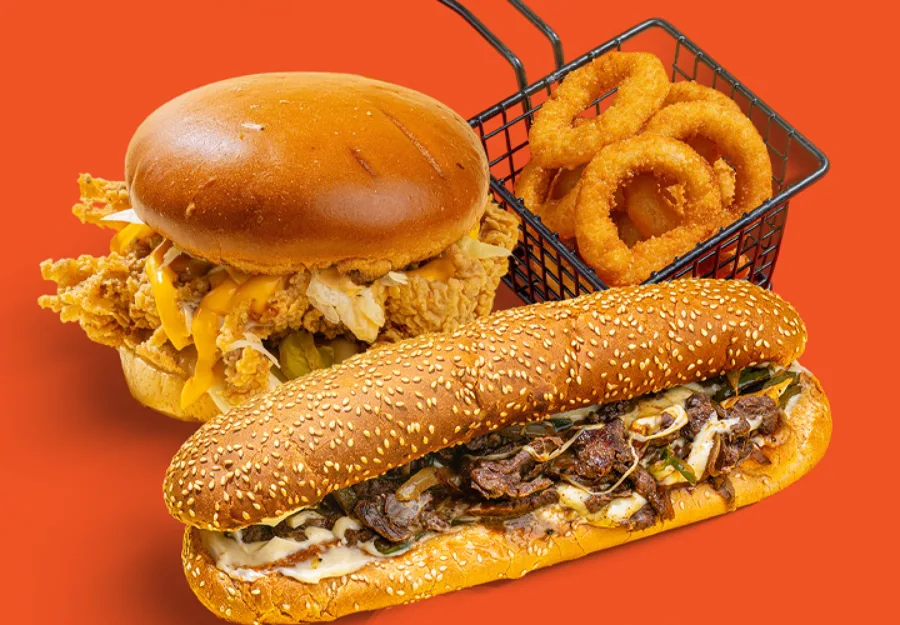
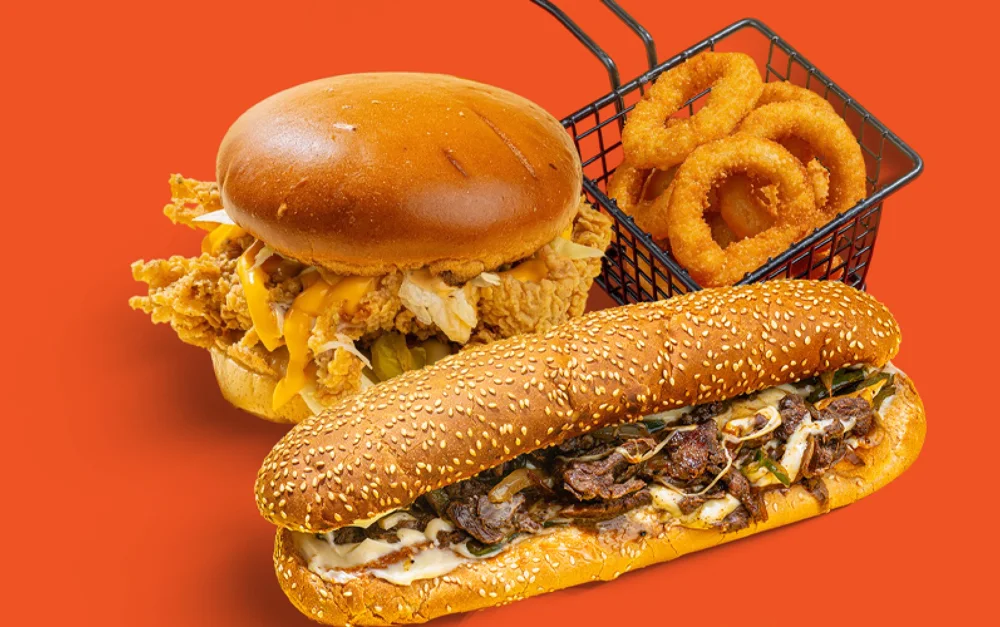
Food Bae: remove the dark edge beside the hero sandwich
The desktop/tablet hero photo was cut through the sandwich's soft shadow,
leaving a straight darker edge against the orange. Re-cut from the original
with room around the shadow, and feathered the photo's edges.

Claude-Session: https://claude.ai/code/session_012gqxfwLyb5ggx3oM2ydk2T

diff --git a/restaurants/foodbae/styles.css b/restaurants/foodbae/styles.css
@@ -521,3 +521,12 @@ dialog::backdrop { background: rgba(36, 21, 16, 0.55); backdrop-filter: blur(3px
   .hero-ctas .btn-ink { flex: 1 1 auto; }
   .hero-ctas .btn-ghost { flex: 0 1 auto; }
 }
+
+/* Hero photo (tablet/desktop): its left edge is cut through the sandwich's shadow, so it was a
+   shade darker than the orange behind it. Fade every edge into the background: no visible seam. */
+@media (min-width: 760px) {
+  .hero-art img {
+    -webkit-mask: radial-gradient(ellipse 75% 75% at 50% 50%, #000 70%, transparent 100%);
+    mask: radial-gradient(ellipse 75% 75% at 50% 50%, #000 70%, transparent 100%);
+  }
+}
